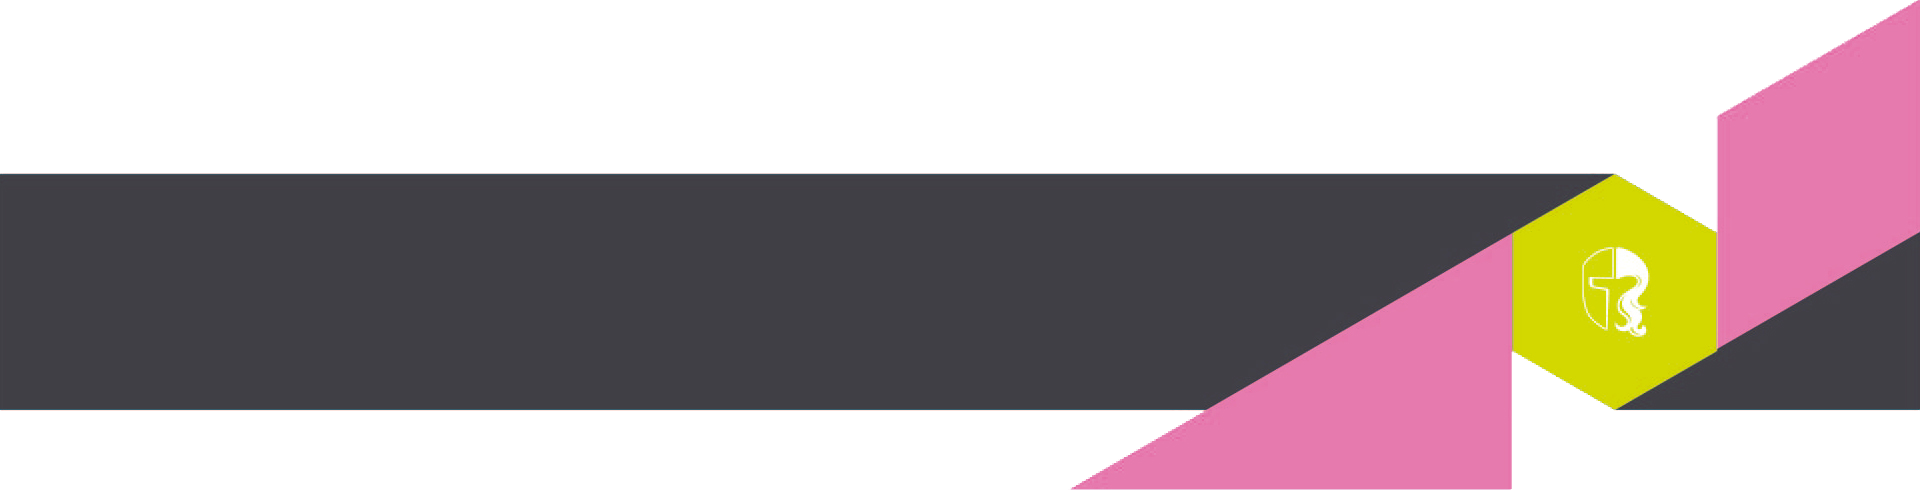
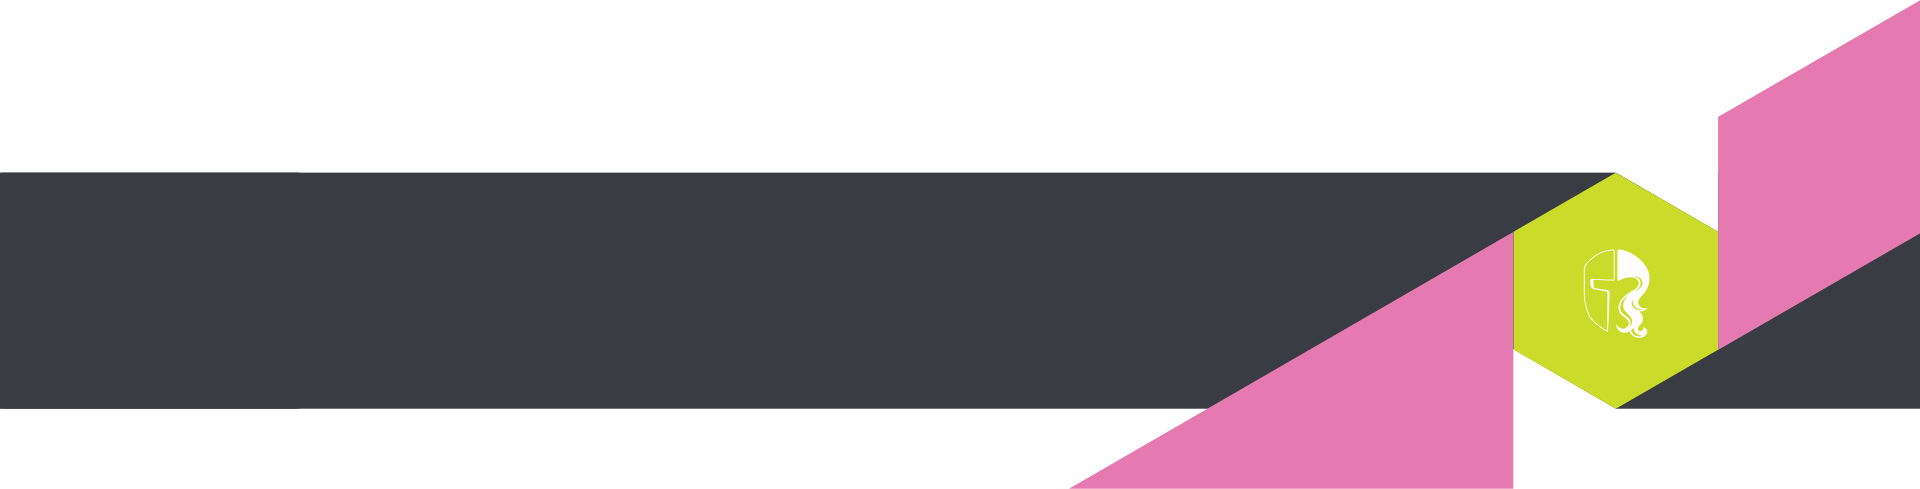
better imagery and remove drop shadow

Changed region(s): [[0.0, 0.3374, 1.0, 0.8589], [0.1562, 0.8282, 0.625, 0.8589], [0.5625, 0.9816, 0.7812, 1.0]]

diff --git a/website/css/maxandaegle.css b/website/css/maxandaegle.css
@@ -139,10 +139,7 @@ body {
 
 .header {
   height: 100px;
-  color: #ffffff;
-  -webkit-box-shadow: 0 0 14px 1px rgba(0, 0, 0, 0.45);
-  -moz-box-shadow: 0 0 14px 1px rgba(0, 0, 0, 0.45);
-  box-shadow: 0 0 14px 1px rgba(0, 0, 0, 0.45); }
+  color: #ffffff; }
   .header .sub-title {
     text-transform: uppercase;
     margin: 0;

diff --git a/source/scss/maxandaegle.scss b/source/scss/maxandaegle.scss
@@ -11,10 +11,6 @@ body {
     height: 100px;
     color: #ffffff;
 
-    -webkit-box-shadow: 0 0 14px 1px rgba(0,0,0,0.45);
-    -moz-box-shadow: 0 0 14px 1px rgba(0,0,0,0.45);
-    box-shadow: 0 0 14px 1px rgba(0,0,0,0.45);
-
     .sub-title {
         text-transform: uppercase;
         margin: 0;
